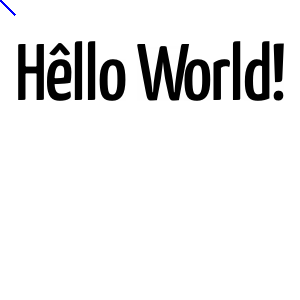
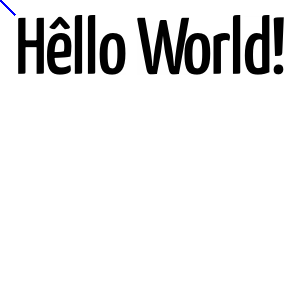
slight adjustment

Changed region(s): [[0.45, 0.03, 0.96, 0.36], [0.06, 0.03, 0.42, 0.36]]

diff --git a/src/main.rs b/src/main.rs
@@ -1,5 +1,6 @@
 // #![allow(unused)]
 
+use ab::ScaleFont;
 use ab_glyph::{self as ab, Font as _};
 use harfbuzz_rs as hb;
 use image::RgbaImage;
@@ -48,10 +49,11 @@ fn main() -> Result<(), Box<dyn std::error::Error>> {
         let ab_scale = ab_font.pt_to_px_scale(60.0).unwrap().x;
         let hb_scale = hb_font.scale().0;
 
-        let advance = ab_scale * caret as f32 / hb_scale as f32;
+        let horizontal = ab_scale * caret as f32 / hb_scale as f32;
+        let vertical = ab_font.as_scaled(ab_scale).ascent();
 
-        let gl = ab_glyph::GlyphId(gid as u16)
-            .with_scale_and_position(ab_scale, (advance, y_offset as f32));
+        let gl =
+            ab_glyph::GlyphId(gid as u16).with_scale_and_position(ab_scale, (horizontal, vertical));
 
         let Some(y) = ab_font.outline_glyph(gl) else {
             // gl is whitespace
@@ -62,8 +64,8 @@ fn main() -> Result<(), Box<dyn std::error::Error>> {
         let bb = y.px_bounds();
 
         y.draw(|px, py, pv| {
-            let px = px as f32 + 15.0 + bb.min.x;
-            let py = py as f32 + bb.min.y + 100.0;
+            let px = px as f32 + bb.min.x + 15.0;
+            let py = py as f32 + bb.min.y + 15.0;
 
             let pixel = canvas.get_pixel(px as u32, py as u32).to_owned();
             let color = image::Rgba([0, 0, 0, 255]);
